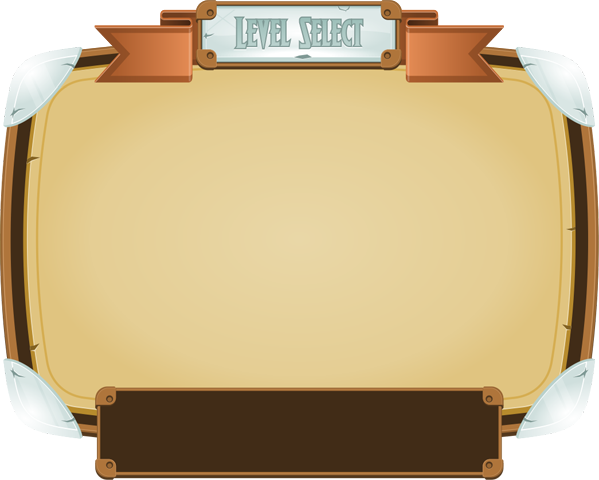
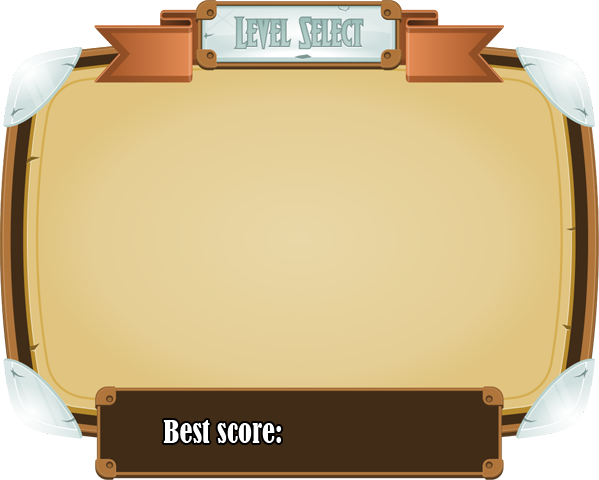
Best score added. Game now save on exit.

Changed region(s): [[0.2705, 0.8438, 0.4808, 0.9375]]

diff --git a/CS411-Final-Project/Scene_LevelSelection.cpp b/CS411-Final-Project/Scene_LevelSelection.cpp
@@ -1,6 +1,9 @@
 #include "Scene_LevelSelection.h"
+#include <fstream>
+using namespace std;
 
 unordered_set<int> UnlockedLevels;
+unordered_map<int, int> BestScores;
 
 Scene_LevelSelection::Scene_LevelSelection()
 {
@@ -22,6 +25,21 @@ Scene_LevelSelection::Scene_LevelSelection()
 		option_positions.push_back({ (double)78 + (i % 5) * 92 + 20, (double)294 - (i / 5) * 87 });
 
 	UnlockedLevels.insert(1);
+	BestScores[1] = 0;
+
+	ifstream fin;
+	fin.open("GameData");
+	if (fin.is_open())
+	{
+		int level, best;
+		while (fin >> level >> best)
+		{
+			UnlockedLevels.insert(level);
+			BestScores[level] = best;
+		}
+		fin.close();
+	}
+
 	current_option = 0;
 	chosen_option = -1;
 	transition_wait_time = 150;
@@ -128,6 +146,21 @@ void Scene_LevelSelection::Update(long long const & totalTime, long long const &
 	}
 }
 
+void Scene_LevelSelection::DrawBestScore(unsigned const & score)
+{
+	int tmp = score, digit, i = 4;
+	Vector2 base_pos = { 320, 32 };
+
+	while (i >= 0)
+	{
+		digit = tmp % 10;
+		numbers[digit].set_position({ base_pos.x + WIDTH_SCORE_NUM * i, base_pos.y });
+		numbers[digit].Draw();
+		tmp /= 10;
+		--i;
+	}
+}
+
 void Scene_LevelSelection::Draw()
 {
 	Scene::Draw();
@@ -158,4 +191,6 @@ void Scene_LevelSelection::Draw()
 				DrawTwoDigits(i + 1, tmp->get_rect());
 		}
 	}
+
+	DrawBestScore(BestScores[current_option + 1]);
 }

diff --git a/CS411-Final-Project/Scene_Level.cpp b/CS411-Final-Project/Scene_Level.cpp
@@ -1,9 +1,10 @@
 #include "Scene_Level.h"
 
-int Score = 0;
+int Score;
 
 Scene_Level::Scene_Level(int const & level) : _level(level), _map(level, { 160, 0 })
 {
+	Score = 0;
 	_sprites.push_back(new Bomberman(_map));	
 	if (_map.is_loaded())
 		_sprites[0]->set_position(_map.bomberman_starting_pos());
@@ -100,7 +101,10 @@ void Scene_Level::Update(long long const & totalTime, long long const & elapsedT
 	{
 		if (_level < N_LEVELS)
 		{
+			if (Score > BestScores[_level])
+				BestScores[_level] = Score;
 			UnlockedLevels.insert(_level + 1);
+			BestScores[_level + 1] = 0;
 			//SceneManager::ChangeScene(new Scene_Level(_level + 1));
 			SceneManager::ReturnScene();
 		}

diff --git a/CS411-Final-Project/GameManager.cpp b/CS411-Final-Project/GameManager.cpp
@@ -1,5 +1,7 @@
 #include "GameManager.h"
 #include <ctime>
+#include <fstream>
+using namespace std;
 
 GameManager* GameManager::instance = nullptr;
 bool GameManager::_running = false;
@@ -97,6 +99,13 @@ void GameManager::ExitGame()
 void GameManager::Shutdown()
 {
 	SceneManager::CleanUp();
+	ofstream fout;
+	fout.open("GameData");
+	if (!fout.is_open())
+		return;
+	for (unordered_map<int, int>::const_iterator it = BestScores.cbegin(); it != BestScores.cend(); ++it)
+		fout << it->first << " " << it->second << endl;
+	fout.close();
 }
 
 void GameManager::update(long long const & totalTime, long long const & elapsedTime)

diff --git a/CS411-Final-Project/Global.h b/CS411-Final-Project/Global.h
@@ -1,5 +1,6 @@
 #pragma once
 #include <unordered_set>
+#include <unordered_map>
 using namespace std;
 
 /* ======================================================================
@@ -13,5 +14,6 @@ static const int HEIGHT_SCORE_NUM = 36;
 
 extern int Score;
 extern unordered_set<int> UnlockedLevels;
+extern unordered_map<int, int> BestScores;
 
 static const int N_LEVELS = 2;

diff --git a/CS411-Final-Project/Scene_Congratulations.cpp b/CS411-Final-Project/Scene_Congratulations.cpp
@@ -15,7 +15,10 @@ void Scene_Congratulations::Update(long long const & totalTime, long long const 
 
 	if (KeyboardManager::is_key_pressed('\r') ||
 		KeyboardManager::is_key_pressed('\n'))
+	{
 		SceneManager::ReturnScene();
+		SceneManager::ChangeScene(new Scene_Start());
+	}
 }
 
 void Scene_Congratulations::Draw()

diff --git a/CS411-Final-Project/Scene_LevelSelection.h b/CS411-Final-Project/Scene_LevelSelection.h
@@ -15,6 +15,7 @@ private:
 
 	void DrawOneDigit(unsigned const & number, vector<Vector2> const & rect);
 	void DrawTwoDigits(unsigned const & number, vector<Vector2> const & rect);
+	void DrawBestScore(unsigned const & score);
 public:
 	Scene_LevelSelection();
 	~Scene_LevelSelection();

diff --git a/CS411-Final-Project/Scene_Congratulations.h b/CS411-Final-Project/Scene_Congratulations.h
@@ -1,6 +1,7 @@
 #pragma once
 #include "SceneManager.h"
 #include "KeyboardManager.h"
+#include "Scene_Start.h"
 
 class Scene_Congratulations : public Scene
 {
